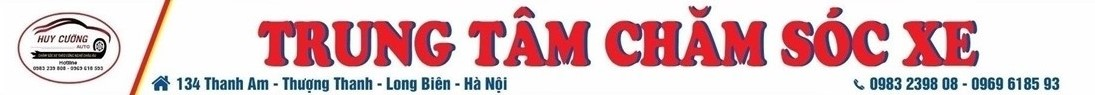
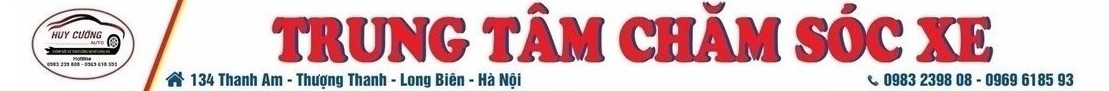
fix footer

diff --git a/src/app/flattery/flattery.component.html b/src/app/flattery/flattery.component.html
@@ -1,5 +1,5 @@
 <div class="container">
-  <h2 class="titleText">Hệ thống dây truyền hiện đại:</h2>
+  <h2 class="titleText">Hệ thống dây chuyền hiện đại:</h2>
   <p><strong>Huy Cường Auto</strong> là đơn vị đầu tiên trên cả nước hoạt sử dụng công nghệ tiê tiến nhất của Mỹ, vào xử
     lý các vấn đề
     liên quan đến đánh giá chất lượng sản phẩm hiện tại.</p>

diff --git a/src/app/intro/intro.component.html b/src/app/intro/intro.component.html
@@ -15,5 +15,4 @@
   hỏi đầy mồ hôi và xương máu. Tại Minh Khang, chúng tôi lấy những kinh nghiệm quý báu và niềm đam mê của mình để làm
   công việc ấy một cách hoàn hảo nhất…
 </p>
-<img src="../../assets/image/intro.jpg">
 

diff --git a/src/app/footer/footer.component.html b/src/app/footer/footer.component.html
@@ -1,5 +1,5 @@
 <footer class="new_footer_area bg_color">
-  <div class="new_footer_top">
+  <div class="new_footer_top" style="padding-top: 0px !important;">
     <div class="container">
       <div class="row">
         <div class="col-lg-3 col-md-6">
